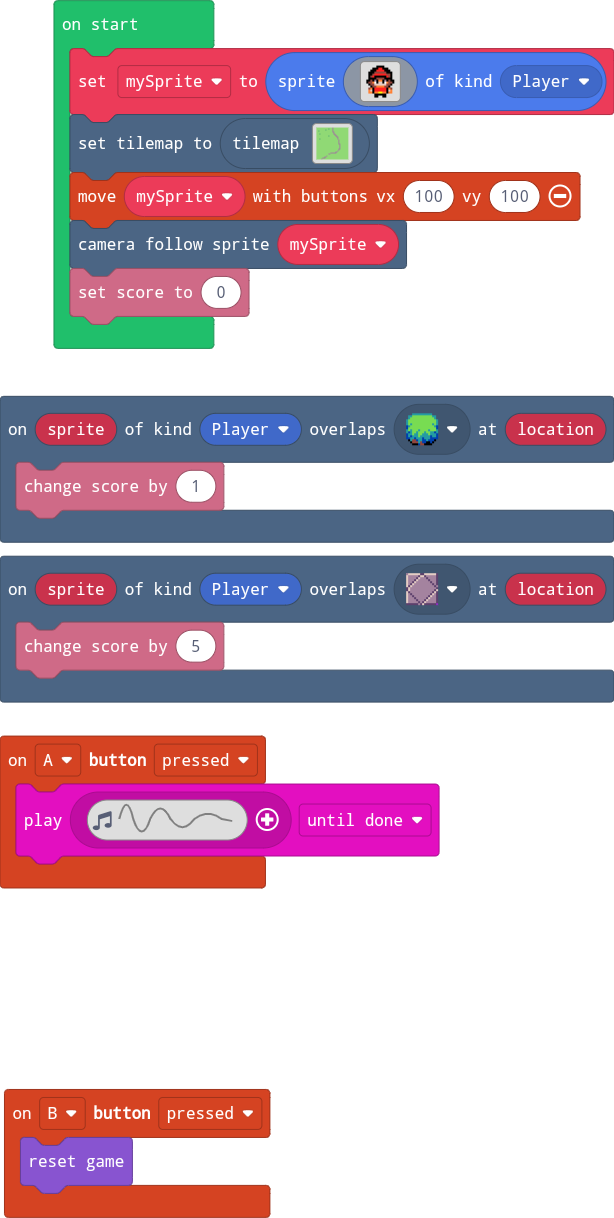
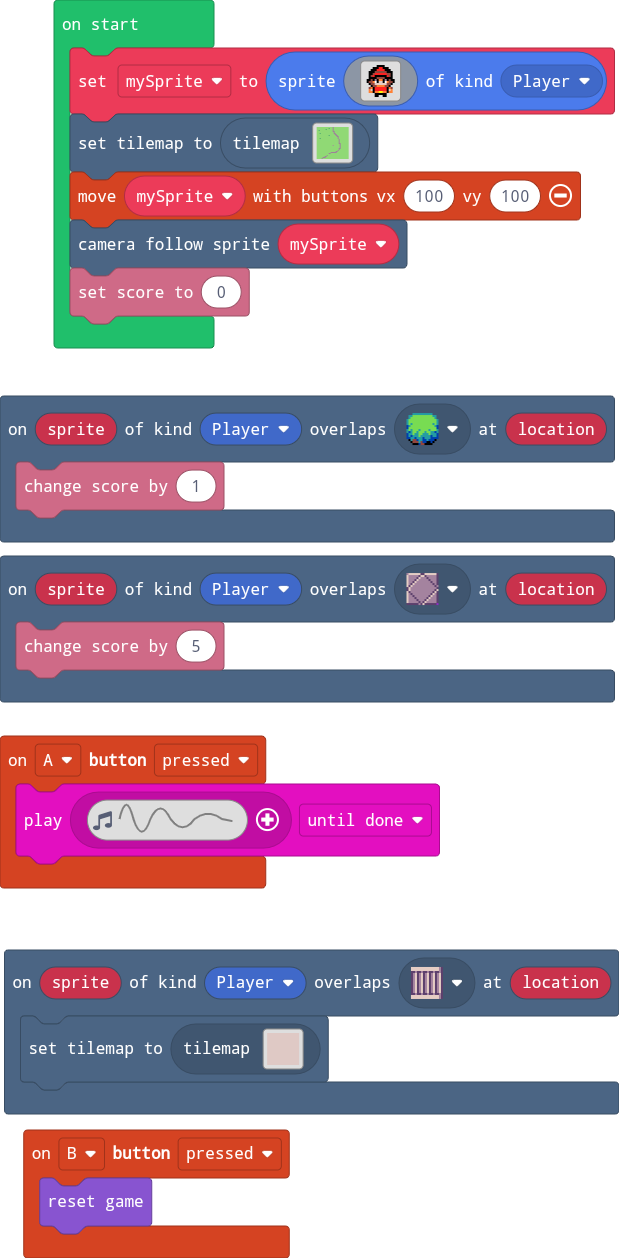
Update main.blocks, main.ts, tilemap.g.jres, tilemap.g.ts

diff --git a/tilemap.g.ts b/tilemap.g.ts
@@ -62,41 +62,6 @@ namespace myTiles {
 . . . . . . . . . . . . . . . . 
 . . . . . . . . . . . . . . . . 
 `, [myTiles.transparency16], TileScale.Sixteen);
-            case "level2":
-            case "level2":return tiles.createTilemap(hex`2000200001010101010101010101010101010101030101010101010101010101010101010101010101010101010101010201010103010101010101010101010101010101010101010101010101020101010101010301010101010101010101010101010101010201010101010101010101010101030101010101010101010101010101010101010101010101010101010101010103030101010101010101010101010101010101010101010101010101010101010103010101010101010101010101010101010102010101010101010101010101010303010101010101010101010101010101010101010101010101010101010101010303010101010101010101010101010101010101010101010101020101010101010303010101010101010101010101010101010101010101010101010101010101010303010101010101010101010101010101010101010101010101010101010101010301010101010101010101010101020101010101010101010101010101010101030101010101010101010101010101010101010101010101010101010101010101030101010101010101010101010101010101010101010101010101010101010103010101010101010101010101010101010101010101010101010101010101010301010101010101010101010101010101010101010101010101010101010101030101010101010101010101010101010101010101010101010101010101010103030101010101010101010101010101010101010101010101010101010101010103010101010101010101010101010101010101010101010101010101010101010301010101010101010101010101010101010101010101010101010101010101030101010101010101010101010101010101010101010101010101010101010103010101010101010101010101010101010101010101010101010101010101030301010101010101010101010101010101010101010101010101010101010103010101010101010101010101010101010101010101010101010101010101030101010101010101010101010101010101010101010101010101010101030301010101010101010101010101010101010101010101010101030303030303010101010101010101010101010101010101010101010101030301010101010101010101010101010101010101010101010101010101010101010101010101010101010101010101010101010101010101010101010103010101010101010101010101010101010101010101010101010101010103030101010101010101010101010101010101010101010101010101010103030301010101010101010101010101010101010101010101010101010101030101010101010101010101010101010101010101010101010101`, img`
-................................
-................................
-................................
-................................
-................................
-................................
-................................
-................................
-................................
-................................
-................................
-................................
-................................
-................................
-................................
-................................
-................................
-................................
-................................
-................................
-................................
-................................
-................................
-................................
-................................
-................................
-................................
-................................
-................................
-................................
-................................
-................................
-`, [myTiles.transparency16,sprites.castle.tileGrass2,sprites.builtin.forestTiles0,sprites.dungeon.floorDarkDiamond], TileScale.Sixteen);
             case "level5":
             case "level5":return tiles.createTilemap(hex`1000100000000000000000000000000000000000000000000000000000000000000000000000000000000000000000000000000000000000000000000000000000000000000000000000000000000000000000000000000000000000000000000000000000000000000000000000000000000000000000000000000000000000000000000000000000000000000000000000000000000000000000000000000000000000000000000000000000000000000000000000000000000000000000000000000000000000000000000000000000000000000000000000000000000000000000000000000000000000000000000000000000000000000000000000000000000000`, img`
 . . . . . . . . . . . . . . . . 
@@ -135,6 +100,95 @@ namespace myTiles {
 . . . . . . . . . . . . . . . . 
 . . . . . . . . . . . . . . . . 
 `, [myTiles.transparency16], TileScale.Sixteen);
+            case "level2":
+            case "level2":return tiles.createTilemap(hex`2000200001010101010101010101010101010101030101010101010101010101010101010101010101010101010101010201010103010101010101010101010101010101010101010101010101020101010101010301010101010101010101010101010101010201010101010101010101010101030101010101010101010101010101010101010101010101010101010101010103030101010101010101010101010101010101010101010101010101010101010103010101010101010101010101010101010102010101010101010101010101010303010101010101010101010101010101010101010101010101010101010101010303010101010101010101010101010101010101010101010101020101010101010303010101010101010101010101010101010101010101010101010101010101010303010101010101010101010101010101010101010101010101010101010101010301010101010101010101010101020101010101010101010101010101010101030101010101010101010101010101010101010101010101010101010101010101030101010101010101010101010101010101010101010101010101010101010103010101010101010101010101010101010101010101010101010101010101010301010101010101010101010101010101010101010101010101010101010101030101010101010101010101010101010101010101010101010101010101010103030101010101010101010101010101010101010101010101010101010101010103010101010101010101010101010101010101010101010101040101010101010301010101010101010101010101010101010101010101010101010101010101030101010101010101010101010101010101010101010101010101010101010103010101010101010101010101010101010101010101010101010101010101030301010101010101010101010101010101010101010101010101010101010103010101010101010101010101010101010101010101010101010101010101030101010101010101010101010101010101010101010101010101010101030301010101010101010101010101010101010101010101010101030303030303010101010101010101010101010101010101010101010101030301010101010101010101010101010101010101010101010101010101010101010101010101010101010101010101010101010101010101010101010103010101010101010101010101010101010101010101010101010101010103030101010101010101010101010101010101010101010101010101010103030301010101010101010101010101010101010101010101010101010101030101010101010101010101010101010101010101010101010101`, img`
+................................
+................................
+................................
+................................
+................................
+................................
+................................
+................................
+................................
+................................
+................................
+................................
+................................
+................................
+................................
+................................
+................................
+................................
+................................
+................................
+................................
+................................
+................................
+................................
+................................
+................................
+................................
+................................
+................................
+................................
+................................
+................................
+`, [myTiles.transparency16,sprites.castle.tileGrass2,sprites.builtin.forestTiles0,sprites.dungeon.floorDarkDiamond,sprites.dungeon.stairWest], TileScale.Sixteen);
+            case "level7":
+            case "level7":return tiles.createTilemap(hex`1000100000000000000000000000000000000000000000000000000000000000000000000000000000000000000000000000000000000000000000000000000000000000000000000000000000000000000000000000000000000000000000000000000000000000000000000000000000000000000000000000000000000000000000000000000000000000000000000000000000000000000000000000000000000000000000000000000000000000000000000000000000000000000000000000000000000000000000000000000000000000000000000000000000000000000000000000000000000000000000000000000000000000000000000000000000000000`, img`
+. . . . . . . . . . . . . . . . 
+. . . . . . . . . . . . . . . . 
+. . . . . . . . . . . . . . . . 
+. . . . . . . . . . . . . . . . 
+. . . . . . . . . . . . . . . . 
+. . . . . . . . . . . . . . . . 
+. . . . . . . . . . . . . . . . 
+. . . . . . . . . . . . . . . . 
+. . . . . . . . . . . . . . . . 
+. . . . . . . . . . . . . . . . 
+. . . . . . . . . . . . . . . . 
+. . . . . . . . . . . . . . . . 
+. . . . . . . . . . . . . . . . 
+. . . . . . . . . . . . . . . . 
+. . . . . . . . . . . . . . . . 
+. . . . . . . . . . . . . . . . 
+`, [myTiles.transparency16], TileScale.Sixteen);
+            case "level8":
+            case "level8":return tiles.createTilemap(hex`2000200001010101010101010101010101010101010101010101010101010101010101010101010101010101010101010101010101010101010101010101010101010101010101010101010101010101010101010101010101010101010101010101010101010101010101010101010101010101010101010101010101010101010101010101010101010101010101010101010101010101010101010101010101010101010101010101010101010101010101010101010101010101010101010101010101010101010101010101010101010101010101010101010101010101010101010101010101010101010101010101010101010101010101010101010101010101010101010101010101010101010101010101010101010101010101010101010101010101010101010101010101010101010101010101010101010101010101010101010101010101010101010101010101010101010101010101010101010101010101010101010101010101010101010101010101010101010101010101010101010101010101010101010101010101010101010101010101010101010101010101010101010101010101010101010101010101010101010101010101010101010101010101010101010101010101010101010101010101010101010101010101010101010101010101010101010101010101010101010101010101010101010101010101010101010101010101010101010101010101010101010101010101010101010101010101010101010101010101010101010101010101010101010101010101010101010101010101010101010101010101010101010101010101010101010101010101010101010101010101010101010101010101010101010101010101010101010101010101010101010101010101010101010101010101010101010101010101010101010101010101010101010101010101010101010101010101010101010101010101010101010101010101010101010101010101010101010101010101010101010101010101010101010101010101010101010101010101010101010101010101010101010101010101010101010101010101010101010101010101010101010101010101010101010101010101010101010101010101010101010101010101010101010101010101010101010101010101010101010101010101010101010101010101010101010101010101010101010101010101010101010101010101010101010101010101010101010101010101010101010101010101010101010101010101010101010101010101010101010101010101010101010101010101010101010101010101010101010101010101010101010101010101010101010101010101010101010101010101010101010101010101010101`, img`
+................................
+................................
+................................
+................................
+................................
+................................
+................................
+................................
+................................
+................................
+................................
+................................
+................................
+................................
+................................
+................................
+................................
+................................
+................................
+................................
+................................
+................................
+................................
+................................
+................................
+................................
+................................
+................................
+................................
+................................
+................................
+................................
+`, [myTiles.transparency16,sprites.dungeon.floorLight2], TileScale.Sixteen);
         }
         return null;
     })

diff --git a/main.ts b/main.ts
@@ -10,6 +10,9 @@ scene.onOverlapTile(SpriteKind.Player, sprites.dungeon.floorDarkDiamond, functio
 controller.A.onEvent(ControllerButtonEvent.Pressed, function () {
     music.play(music.createSoundEffect(WaveShape.Sine, 3201, 1, 255, 0, 300, SoundExpressionEffect.None, InterpolationCurve.Curve), music.PlaybackMode.UntilDone)
 })
+scene.onOverlapTile(SpriteKind.Player, sprites.dungeon.stairWest, function (sprite, location) {
+    tiles.setCurrentTilemap(tilemap`level8`)
+})
 let mySprite = sprites.create(img`
     . . . . . . f f f f . . . . . . 
     . . . . f f f 2 2 f f f . . . . 
